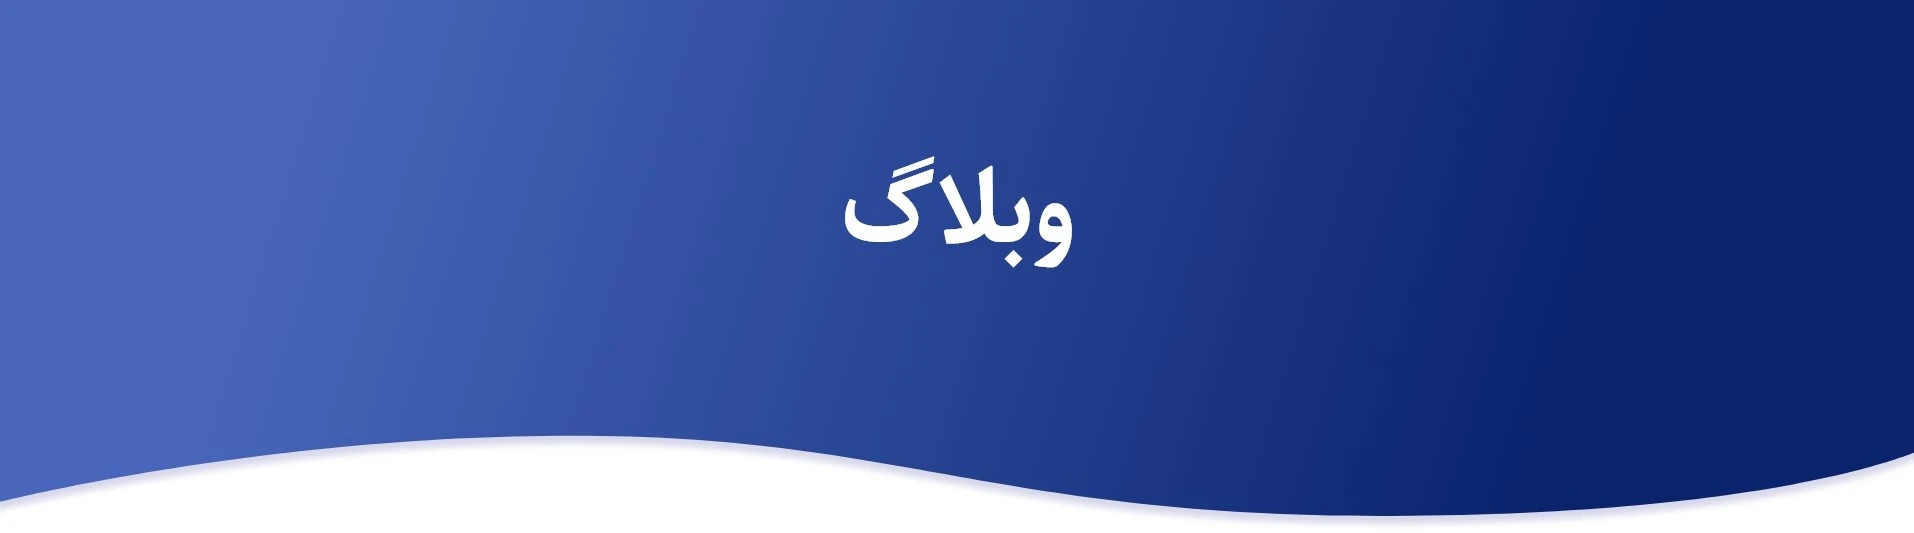
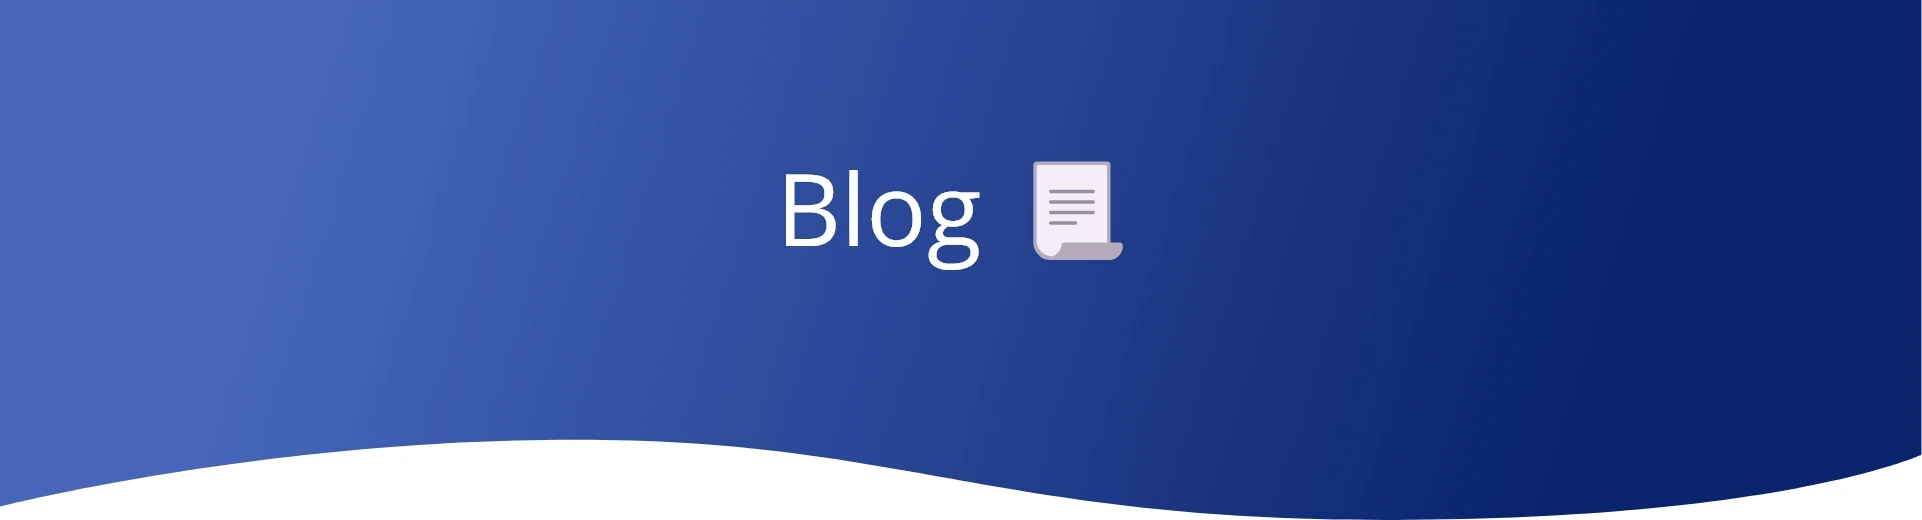
finaliza the frontend view in English

Changed region(s): [[0.0, 0.8, 1.0, 1.0], [0.4007, 0.2769, 0.5857, 0.5231]]

diff --git a/public/css/style.css b/public/css/style.css
@@ -42,12 +42,6 @@ a{
 button{
     font-family: Sahel;
 }
-/* news */
-#news {
-    width: 100%;
-    height: 30px;
-    background-color:#04355C;
-}
 
 /* nav bar */
 #nav-bar{
@@ -60,24 +54,15 @@ button{
     font-weight: bold;
 }
 
-#nav-bar a:hover{
-    color:#fff;
-    transform: scale(1.2);
-}
-
-#mynavbar li {
-    padding: 10px;
-
-}
 /* nav bar collapse icon sytles */
 #nav-bar .navbar-toggler {
     color: #fff;
-    border: 2px solid #fff !important;
+    border: none;
 }
 
 #nav-bar .navbar-toggler:focus {
     color: #fff;
-    border: 2px solid #fff !important;
+    border: none;
     box-shadow: none !important;
 }
 
@@ -86,17 +71,7 @@ button{
     display: inline-block;
     margin-top: 5px;
 }
-/* navbar search icon styles */
-#search{
-    font-size: 30px;
-    font-weight: bold;
-    margin-right: 45px;
-}
 
-#search:hover{
-    cursor: pointer;
-    transform: scale(1.2);
-}
 /* Homepage styles */
 /* ask a pharmacis section styls */
 .ask-phar{

diff --git a/resources/views/frontend/homePage.blade.php b/resources/views/frontend/homePage.blade.php
@@ -66,7 +66,7 @@
           {{-- podcast pic --}}
           <div class="headphone-img col-xl-3 d-flex justify-content-center col-12 col-md-4">
               <a href="{{route('home.podcast')}}" title="Click here to explore more podcasts" >
-              <img src="/images/headphone.png" alt="pharmacistIcon" class="img-fluid ">
+                <svg xmlns="http://www.w3.org/2000/svg" width="256" height="256" viewBox="0 0 512 512"><path fill="#fff" d="M256 27.998c-33.784 0-67.564 12.67-80.97 38.004H240v17.996h-70.574c-.563 4.866-.428 8.98-.428 14.004H240v17.996h-71.002v14.004H240v17.996h-71.002v14.004h174.004v-14.004H272v-17.996h71.002v-14.004H272V98.002h71.002c.022-4.63.077-9.796-.428-14.004H272V66.002h64.97C323.565 40.668 289.785 27.998 256 27.998M80 162.002v17.996h22.678c-.148 4.753-.266 9.44-.326 14.004h18.002c.06-4.551.18-9.241.332-14.004h30.316v-17.996zm280.998 0v17.996h29.94a861 861 0 0 1-.254 14.004h18.013c.12-4.563.192-9.25.24-14.004H432v-17.996zm-192 17.996v18.004h174.004v-18.004zm-66.654 32c1.175 86.626 19.908 134.76 47.8 161.498c24.806 23.779 55.434 29.003 82.854 30.158v46.348h46.004v-46.377c26.698-1.218 55.672-6.572 79.361-30.262c26.772-26.771 45.324-74.691 49.658-161.365h-18.046c-4.382 83.532-22.405 126.705-44.338 148.639C320.364 385.91 288 386.002 256 386.002s-67.037-.226-93.4-25.498c-22.91-21.962-41.029-64.919-42.245-148.506zm66.654 4V283c0 39.1 37.7 59.99 78.004 62.691V215.998zm96 0v129.693c40.303-2.7 78.004-23.591 78.004-62.691v-67.002zm-144 252v16.004h270.004v-16.004z"/></svg>
               </a>
           </div>
         </div>

diff --git a/resources/views/layouts/frontend/header.blade.php b/resources/views/layouts/frontend/header.blade.php
@@ -50,22 +50,22 @@
       </button>
 
       <!-- the elemts of navbar -->
-      <div class="collapse navbar-collapse" id="mynavbar">
-        <ul class="navbar-nav col-10 ">
+      <div class="collapse navbar-collapse " id="mynavbar">
+        <ul class="navbar-nav text-center col-12 ">
           <li class="nav-item">
-            <a class="nav-link " href="{{route('home.blog')}}">Blog</a>
+            <a class="nav-link " href="{{route('home.blog')}}">Blog 📃</a>
           </li>
           {{-- webinar nav item --}}
           <li class="nav-item">
-            <a class="nav-link" href="{{route('home.webinarsList')}}" rel="nofallow">Webinar</a>
+            <a class="nav-link" href="{{route('home.webinarsList')}}" rel="nofallow">Webinar 🎬</a>
           </li>
-          {{-- answer nav item --}}
+          {{-- answer nav item
           <li class="nav-item">
             <a class="nav-link" href="{{route('home.responses')}}">Answers</a>
-          </li>
+          </li> --}}
           {{-- podcast nav item --}}
           <li class="nav-item ">
-            <a class="nav-link" href="{{route('home.podcast')}}" rel="nofallow">Podcast</a>
+            <a class="nav-link" href="{{route('home.podcast')}}" rel="nofallow">Podcast 🎙</a>
           </li>
 
         </ul>

diff --git a/resources/views/frontend/podcast.blade.php b/resources/views/frontend/podcast.blade.php
@@ -9,7 +9,8 @@
   <header id="header" class="text-center  d-flex flex-wrap justify-content-center mb-3">
 
     <div id="header-img" class="text-center">
-      <img src="../images/podcast-head.jpg" alt="headImg" class="img-fluid">
+      <img src="../images/podcast-head.webp" alt="headImg" class="img-fluid">
+
     </div>
     {{-- search box --}}
         <div  class="z-3 search-box col-10 col-md-5 d-flex flex-wrap justify-content-center ">

diff --git a/resources/views/frontend/webinar.blade.php b/resources/views/frontend/webinar.blade.php
@@ -9,7 +9,7 @@
    <header id="header" class="text-center  d-flex flex-wrap justify-content-center mb-3">
 
     <div id="header-img" class="text-center">
-      <img src="../images/webinar-head.jpg" alt="headImg" class="img-fluid">
+      <img src="../images/webinar-head.webp" alt="headImg" class="img-fluid">
     </div>
     {{-- search box --}}
         <div  class="z-3 search-box col-10 col-md-5 d-flex flex-wrap justify-content-center ">

diff --git a/resources/views/frontend/ask.blade.php b/resources/views/frontend/ask.blade.php
@@ -12,7 +12,7 @@
   <header id="header">
 
     <div id="header-img" class="text-center">
-      <img src="../images/ask-a-phar.webp" alt="headImg" class="img-fluid">
+      <img src="../images/ask-head.webp" alt="headImg" class="img-fluid">
     </div>
 
   </header>
